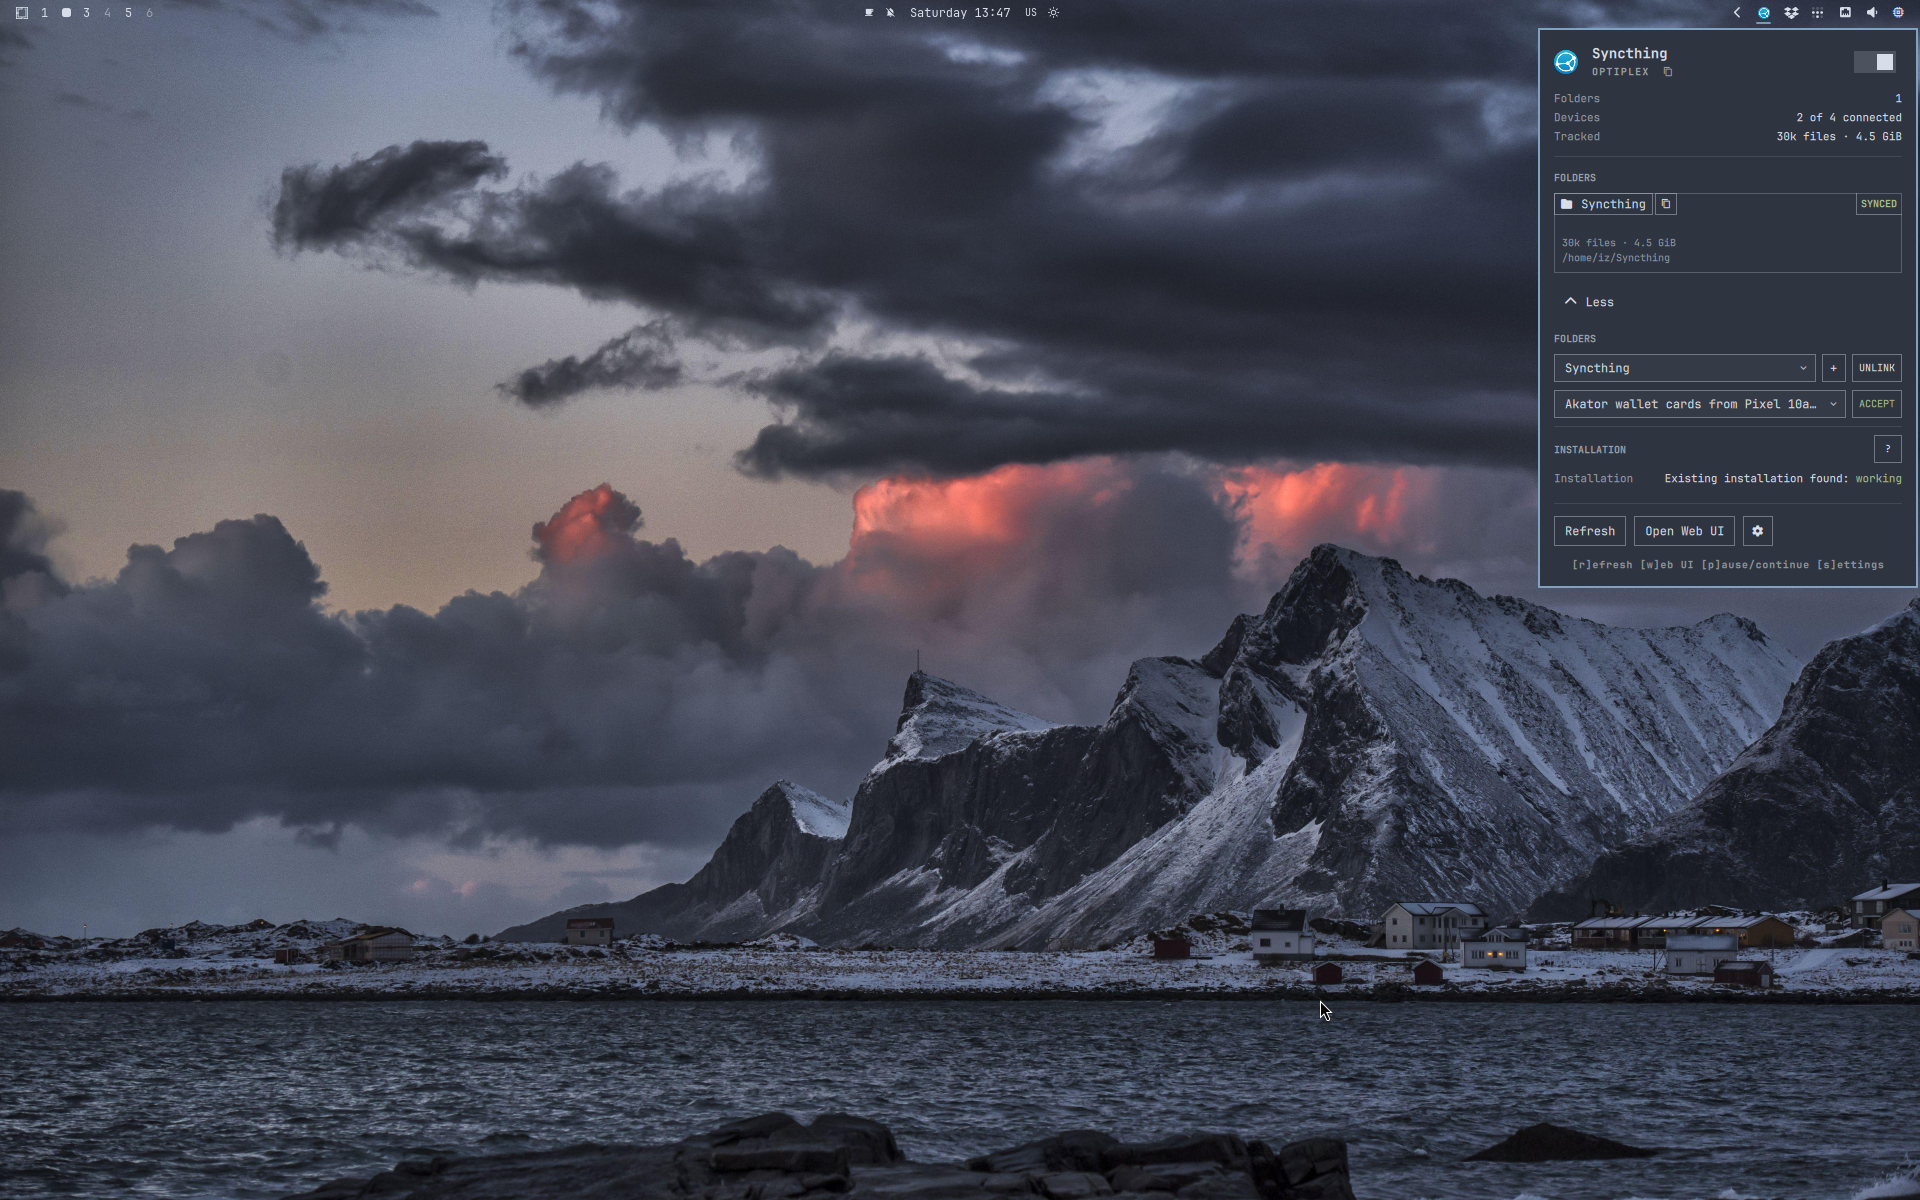
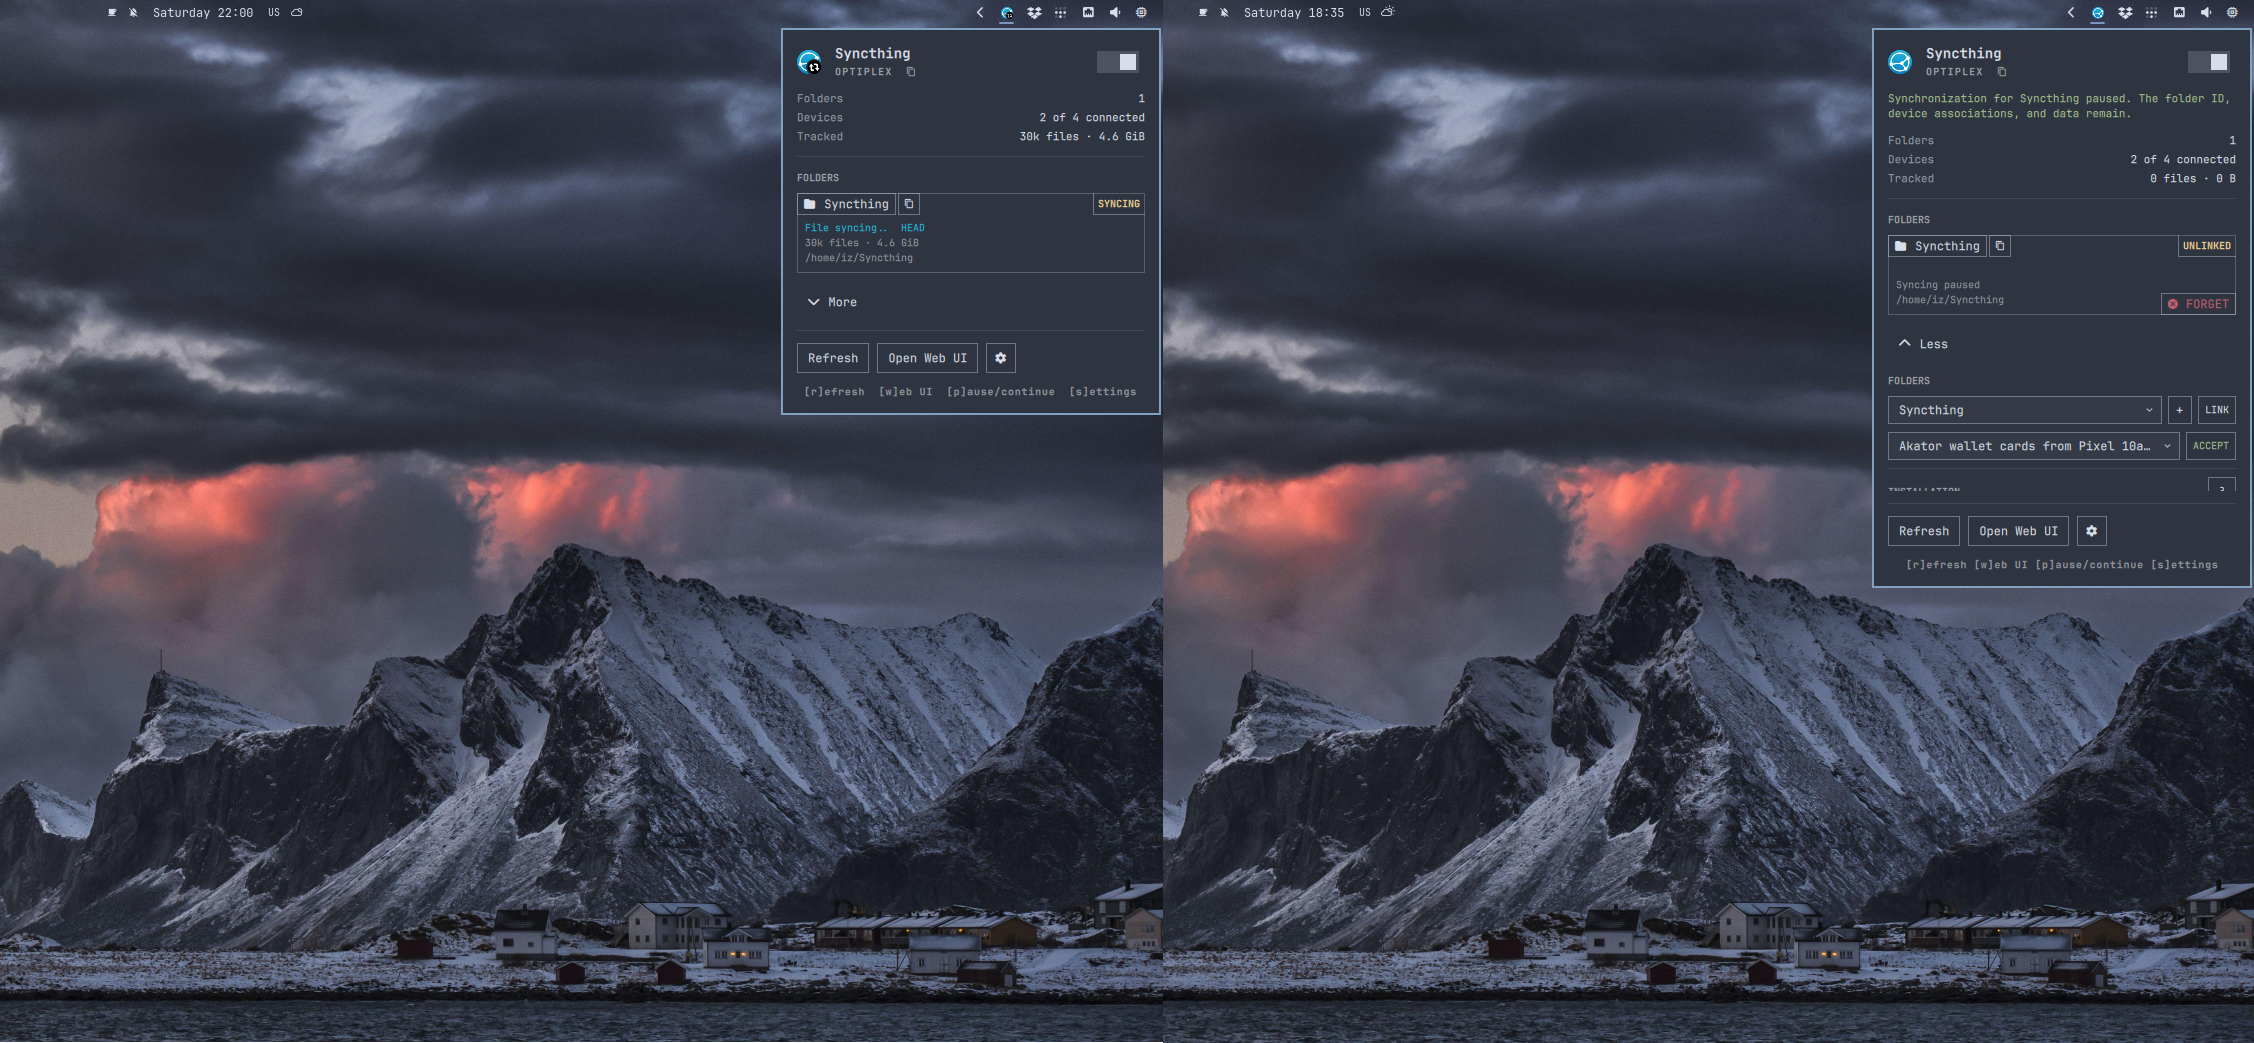
docs: finalize release presentation

diff --git a/README.md b/README.md
@@ -1,8 +1,10 @@
 # Syncthing for Omarchy
 
-See Syncthing health and file activity from the Omarchy bar. The plugin can
-manage local folders, open Syncthing's Web UI, control the user service, and
-install the official Arch package.
+Syncshell (**Sync**thing + quick**shell**) is a plugin to show Syncthing file
+activity from the Omarchy bar. The plugin can manage local folders, open
+Syncthing's Web UI, control the user service, and many more. While originally
+developed on Omarchy, in its next release, it will be refactored to be used on
+any quickshell build, not only Omarchy.
 
 ![Syncthing status and installation controls](preview.png)
 
@@ -62,9 +64,10 @@ Syncthing's styling and any user customization intact.
 Click a preview to play the video. These four walkthroughs cover live file
 activity, folder management, Web UI theming, and plugin settings.
 
-> [!WARNING] The Hyprland window to the left of the plugin is not part of the
-> plugin. It live-tracks changes in the `test-source` directory for the
-> demonstration.
+<!-- prettier-ignore -->
+> [!WARNING]
+> The Hyprland window to the left of the plugin is not part of the plugin. It
+> live-tracks changes in the `test-source` directory for the demonstration.
 
 <table>
   <tr>
